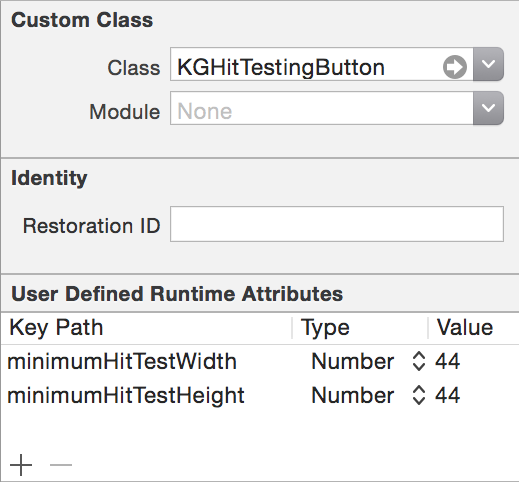
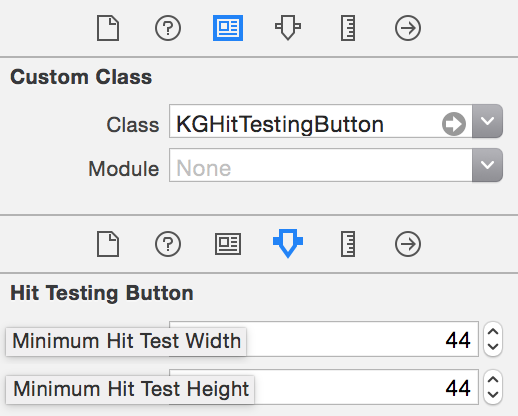
Updated README.

Changed region(s): [[0.0, 0.0, 1.0, 1.0]]

diff --git a/README.md b/README.md
@@ -18,7 +18,8 @@ Subclass `KGHitTestingView` or `KGHitTestingButton` and set `minimumHitTestHeigh
 ```
 
 ### In Interface Builder:
-Subclass `KGHitTestingView` or `KGHitTestingButton` and set the runtime attributes:
+Subclass `KGHitTestingView` or `KGHitTestingButton` in the "Identify Inspector" and set the width and height values in the "Attributes Inspector."
+
 ![](Images/InterfaceBuilderSubclassExample.png)
 
 ### Important note: 
@@ -34,6 +35,10 @@ Hit test (`-hitTest:`) is a more-complex algorithmic test that involves looping 
 
 ## Credits
 Created and maintained by Krisjanis Gaidis. 
+
+Contributions:
+
+* IBInspectable addition by [mailworks](https://github.com/mailworks).
 
 ## License
 KGHitTestingViews is released under the MIT license. See LICENSE for details.
